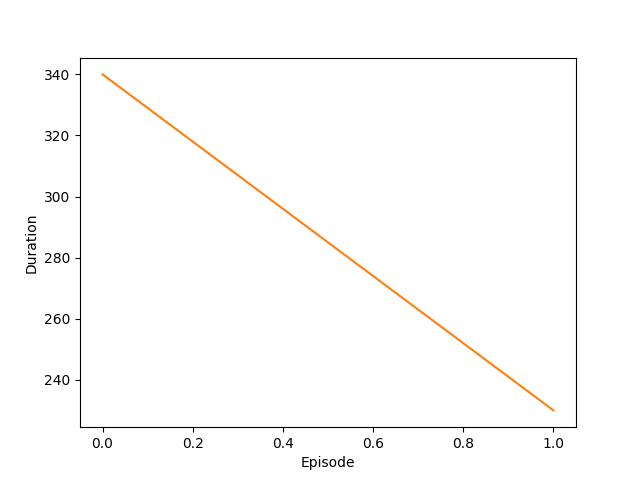
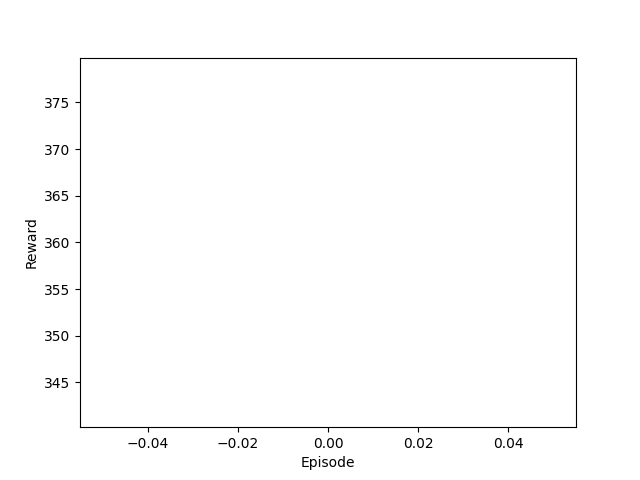
invalid move negative reward

diff --git a/laerning_agent.py b/laerning_agent.py
@@ -152,7 +152,7 @@ class LearningAgent:
         plt.figure(1)
         durations_t = torch.tensor(self.rewards, dtype=torch.float)
         plt.xlabel('Episode')
-        plt.ylabel('Duration')
+        plt.ylabel('Reward')
         plt.plot(durations_t.numpy())
         if len(durations_t) >= 100:
             means = durations_t.unfold(0, 100, 1).mean(1).view(-1)
@@ -168,7 +168,7 @@ class LearningAgent:
         start_time = time.time()
         self.episode += 1
         lives = 3
-        obs, reward, done, info = self.game.step(2)
+        obs, reward, done, info, _ = self.game.step(2)
         obs = obs.flatten().astype(dtype=np.float32)
         state = torch.from_numpy(obs).unsqueeze(0).to(device)
         reward_sum = 0
@@ -179,8 +179,12 @@ class LearningAgent:
             if elapsed_time >= action_interval:
                 action = self.select_action(state)
                 action_t = action.item()
-                obs, reward, done, remaining_lives = self.game.step(action_t)
+                obs, reward, done, remaining_lives, is_valid_move = self.game.step(
+                    action_t)
+
                 reward_ = reward - last_score
+                if is_valid_move == False:
+                    reward_ = -10
                 if reward_ >= 200:
                     reward_ = 20
                 if last_score < reward:
@@ -191,7 +195,7 @@ class LearningAgent:
                     lives -= 1
                     reward_ = -10
                 if reward_ == last_score:
-                    reward_ = -0.2
+                    reward_ += -0.2
                 observation = obs.flatten().astype(dtype=np.float32)
                 next_state = torch.from_numpy(
                     observation).unsqueeze(0).to(device)
@@ -207,7 +211,7 @@ class LearningAgent:
                     self.target.load_state_dict(self.policy.state_dict())
                 start_time = time.time()
             else:
-                _, _, done, remaining_lives = self.game.update()
+                _, _, done, remaining_lives, _ = self.game.update()
             if done:
                 assert reward_sum == reward
                 self.rewards.append(reward_sum)

diff --git a/pacman.py b/pacman.py
@@ -810,7 +810,7 @@ class GameController:
         elif self.player_x < -5:
             self.player_x = self.width-3
         pygame.display.flip()
-        return (None, None, self.end, self.lives)
+        return (None, None, self.end, self.lives, None)
 
     def restart(self):
         self.start = 0
@@ -842,7 +842,7 @@ class GameController:
         self.pink_dead = False
         self.eaten_gh = [False, False, False, False]
         self.score = 0
-        self.lives = 1
+        self.lives = 3
         self.end = False
         self.won = False
         # begin=False
@@ -1247,6 +1247,10 @@ class GameController:
                     self.direction_command = self.direction
             self.direction_command = action
             # self.direction = dircetion
+        is_valide_move = True
+        if self.turns_allowed[self.direction_command] == False:
+            is_valide_move = False
+
         for i in range(4):
             if self.direction_command == i and self.turns_allowed[i]:
                 self.direction = i
@@ -1257,7 +1261,7 @@ class GameController:
             self.player_x = self.width-3
         pygame.display.flip()
         state = self.get_state()
-        return (state, self.score, self.end, self.lives)
+        return (state, self.score, self.end, self.lives, is_valide_move)
 
     def get_state(self):
         state = np.array(self.level)

diff --git a/game.py b/game.py
@@ -40,7 +40,7 @@ class GameWrapper:
             print("Invalid action", action)
         pygame.event.post(event)
         data = self.controller.perform_action(action)
-        return (data[0], data[1], data[2], data[3])
+        return (data[0], data[1], data[2], data[3], data[4])
 
     def pacman_position(self):
         return self.controller.pacman.position
